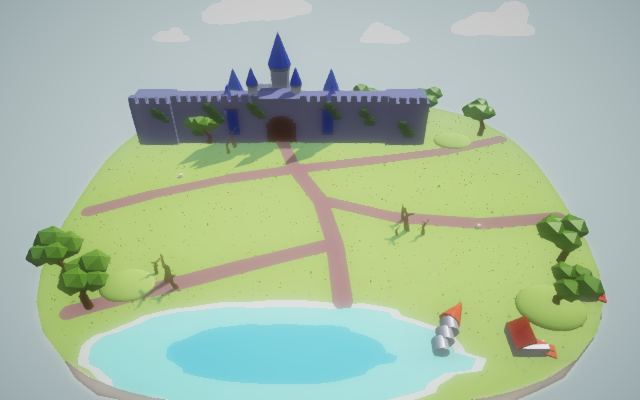
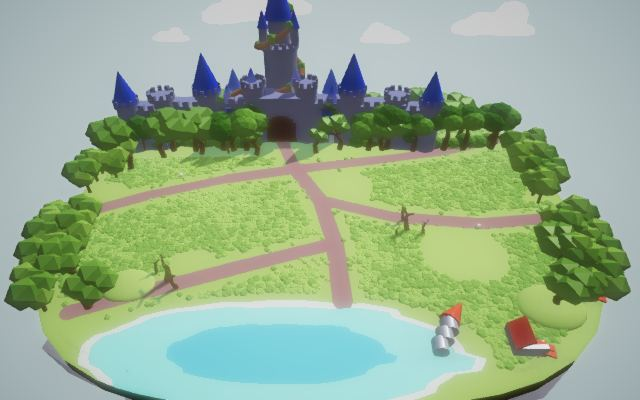
loop(575): maps_2 11/11 gaps approved

diff --git a/loop/STATE.md b/loop/STATE.md
@@ -1,5 +1,5 @@
 # Loop state (v10: maps then stages; two batch audits merged; up to 9 structural/rebuild gaps + 1 eligible polish; fresh CONFIRM before done)
-Iteration: 574   Batch: maps_2   Consecutive empty: 0   Done: 8/99   Parked: 0
+Iteration: 575   Batch: maps_2   Consecutive empty: 0   Done: 11/99   Parked: 0
 Batches, in order: maps_1, maps_2, maps_3, maps_4, stages_introduction, stages_adventure, stages_challenge, stages_dynasty, stages_renaissance, stages_pirate, stages_spooky, stages_simulation, stages_wild_west, stages_legacy, stages_fantasy_good, stages_fantasy_evil
 <!-- Item file template, loop/items/<id>.md (map: map.<id>; stage: <campaign>.<level>):
 # <id>
@@ -17,7 +17,7 @@ Marks below: one per criterion a b c (+ pass, - fail, ? unscored); map a look, b
 
 ## Scoreboard (a b c as + pass, - fail, ? unscored; status q queued, o open, D done, p parked)
 maps_1: tribal_1 +++ D | tribal_2 +++ D | tribal_sandbox +++ D | farmer_1 +++ D | farmer_2 +++ D | farmer_snow +++ D
-maps_2: medieval_1 +++ D | medieval_2 -++ o | ancient_1 --+ o | ancient_2 -++ o | ancient_sandbox -++ o | viking +-+ o | viking_sandbox +++ D
+maps_2: medieval_1 +++ D | medieval_2 +++ D | ancient_1 -++ o | ancient_2 -++ o | ancient_sandbox +++ D | viking +++ D | viking_sandbox +++ D
 maps_3: dynasty ??? q | renaissance ??? q | pirate ??? q | spooky_1 ??? q | spooky_2 ??? q | wild_west ??? q | legacy ??? q
 maps_4: fantasy_good ??? q | fantasy_evil ??? q | simulation ??? q | bridge ??? q | hill ??? q | corridor ??? q | defend_the_castle ??? q | high_ground ??? q | low_ground ??? q
 stages_introduction: clubs ??? q | army ??? q | hay_and_pitchforks ??? q | basic_formation ??? q | ice_archers_only_almost ??? q | longships ??? q
@@ -33,59 +33,59 @@ stages_legacy: siege ??? q | a_tank ??? q | the_war ??? q | thor_s_battle ??? q
 stages_fantasy_good: colossal_spike ??? q | royal_archers ??? q | clash_of_warriors ??? q | chaotic_cavalry ??? q | vicious_terror ??? q | fortified_formation ??? q
 stages_fantasy_evil: encircling_tribe ??? q | raze_the_homestead ??? q | farmer_uprising_evil ??? q | storm_the_fortress ??? q | blasted_skirmish ??? q | dismantle_the_spears ??? q
 
-## Focus (iter 574: maps_2, 9 [S] + 1 [P] + 1 [R]; BASE ae94bb09 after evidence ae94bb09 (ancient_1 battle framed on the player army))
-- [S] map.ancient_2.b blocker 1 floor trim via fresh buffer, lawn out of glow (4f1be279+bff14f83) APPROVE, struck b1
-- [S] map.ancient_2.b blocker 4 open front propylon (15c6c224) APPROVE, struck b4 (b PASS; CONFIRM passed b, failed a)
-- [S] map.ancient_sandbox.a blocker 1 clear sky (a472ad38) APPROVE, struck a1
-- [S] map.ancient_sandbox.a blocker 3 sandstone rocks and steps (ae0499eb) APPROVE, struck a3
-- [S] map.ancient_sandbox.a blocker 5 hazy graded sea (452ef25d+7ac51041) APPROVE, struck a5
-- [S] map.ancient_1.b blocker 1 outer house rows (536b4f76) APPROVE, struck b1, b3, b5
-- [S] map.ancient_1.a blocker 3 separate houses and alley stairs (422bf815) APPROVE, struck a3 and b2
-- [S] map.ancient_1.a blocker 2 flagstone paving (e03012d5+e3d80f84) APPROVE, struck a2; added a7 (too dark)
-- [S] map.viking.b blocker 2 bank face and shore rocks (fdb5043b) REJECT, reverted 3e63a5aa
-- [P] map.viking.b blocker 2 BANK.top 4.5 (dc64fad6) REJECT, reverted 8e0d0a0c
-- [R] map.viking_sandbox.a blockers 1-3 gate, skyline, floor (ef7ca1e5) APPROVE, struck a1-a3 (CONFIRM passed: D)
-- 9/11, 14 struck
+## Focus (iter 575: maps_2, 9 [S] + 1 [P] + 1 [R]; BASE 23a0052b)
+- [S] map.viking.b blocker 2 faceted snow-slab shore lip and rocks (f625c54e+cfcf192a+a551c647) APPROVE, struck b2 (b PASS; CONFIRM: D)
+- [R] map.medieval_2.a blockers 1-3 keep vine, grey rock underside, side rim oaks (894c4560+214cd90a+32646705) APPROVE, struck a1-a3 (CONFIRM passed: D)
+- [S] map.ancient_2.a blocker 1 clear sky (01f55292) APPROVE, struck a1
+- [S] map.ancient_2.a blocker 2 far range hidden (68327b4c) APPROVE, struck a2
+- [S] map.ancient_2.a blocker 3 four-terrace mound (07ed1f71) APPROVE, no strike
+- [S] map.ancient_sandbox.a blocker 4 front clouds moved behind (463f1de9) APPROVE, struck a4
+- [S] map.ancient_sandbox.a blocker 2 olive meadow (80685728+74532b9b) APPROVE, struck a2 (CONFIRM passed: D)
+- [S] map.ancient_1.b blocker 4 harbour bay (8b0caf9f) APPROVE, struck b4 (b PASS)
+- [S] map.ancient_1.a blocker 5 raised cypress planters (dc064a4b) APPROVE, struck a5
+- [S] map.ancient_1.a blocker 4 parapet with blue tiles (fb150da1) APPROVE, struck a4
+- [P] map.ancient_1.a blocker 7 pavement 0.4 (0560a79a) APPROVE, struck a7
+- 11/11, 14 struck
 
 ## Last verdicts (critic header lines verbatim)
-GAP: [S] map.ancient_2 (4f1be279 + bff14f83)
+GAP: [S] map.viking (f625c54e + cfcf192a + a551c647)
 VERDICT: APPROVE
-CRITERION: map.ancient_2.b FAIL   (previous: FAIL)
-GAP: [S] map.ancient_2 (15c6c224)
+CRITERION: map.viking.b PASS   (previous: FAIL)
+GAP: [R] map.medieval_2 (894c4560 + 214cd90a + 32646705)
 VERDICT: APPROVE
-CRITERION: map.ancient_2.b PASS   (previous: FAIL)
-GAP: [S] map.ancient_sandbox (a472ad38)
+CRITERION: map.medieval_2.a PASS   (previous: FAIL)
+GAP: [S] map.ancient_2 (01f55292)
+VERDICT: APPROVE
+CRITERION: map.ancient_2.a FAIL   (previous: FAIL)
+GAP: [S] map.ancient_2 (68327b4c)
+VERDICT: APPROVE
+CRITERION: map.ancient_2.a FAIL   (previous: FAIL)
+GAP: [S] map.ancient_2 (07ed1f71)
+VERDICT: APPROVE
+CRITERION: map.ancient_2.a FAIL   (previous: FAIL)
+GAP: [S] map.ancient_sandbox (463f1de9)
 VERDICT: APPROVE
 CRITERION: map.ancient_sandbox.a FAIL   (previous: FAIL)
-GAP: [S] map.ancient_sandbox (ae0499eb)
+GAP: [S] map.ancient_sandbox (80685728 + 74532b9b)
 VERDICT: APPROVE
-CRITERION: map.ancient_sandbox.a FAIL   (previous: FAIL)
-GAP: [S] map.ancient_sandbox (452ef25d + 7ac51041)
+CRITERION: map.ancient_sandbox.a PASS   (previous: FAIL)
+GAP: [S] map.ancient_1 (8b0caf9f)
 VERDICT: APPROVE
-CRITERION: map.ancient_sandbox.a FAIL   (previous: FAIL)
-GAP: [S] map.ancient_1 (536b4f76)
-VERDICT: APPROVE
-CRITERION: map.ancient_1.b FAIL   (previous: FAIL)
-GAP: [S] map.ancient_1 (422bf815)
+CRITERION: map.ancient_1.b PASS   (previous: FAIL)
+GAP: [S] map.ancient_1 (dc064a4b)
 VERDICT: APPROVE
 CRITERION: map.ancient_1.a FAIL   (previous: FAIL)
-GAP: [S] map.ancient_1 (e03012d5 + e3d80f84)
+GAP: [S] map.ancient_1 (fb150da1)
 VERDICT: APPROVE
 CRITERION: map.ancient_1.a FAIL   (previous: FAIL)
-GAP: [S] map.viking (fdb5043b)
-VERDICT: REJECT
-CRITERION: map.viking.b FAIL   (previous: FAIL)
-GAP: [P] map.viking (dc64fad6)
-VERDICT: REJECT
-CRITERION: map.viking.b FAIL   (previous: FAIL)
-GAP: [R] map.viking_sandbox (ef7ca1e5)
+GAP: [P] map.ancient_1 (0560a79a)
 VERDICT: APPROVE
-CRITERION: map.viking_sandbox.a PASS   (previous: FAIL)
-REGRESSIONS: map.viking.a (PASS) -> attributed to fdb5043b and dc64fad6 (both reverted)
+CRITERION: map.ancient_1.a FAIL   (previous: FAIL)
+REGRESSIONS: none
 
 ## Notes for next iteration (max 5 lines)
-- 574: 65 shots, zero page errors, all script checks pass (viking re-shot alone after the reverts). Viking Sandbox done (CONFIRM passed a).
-- [R] slot: Medieval 2 a (plateau, waiting since 572) takes it next iteration.
-- Viking b: bankFace went near black (normals/double-sided, weak emissive); retry with upward normals and pale vertex colours, BANK.top stays 2.4.
-- Ancient 2 a now carries the 574 CONFIRM list (beige sky, far mountains, flat temple grid, lime grass); b PASS confirmed.
-- Capture --add for map.viking also wipes map_viking_sandbox_* (filename prefix match): re-shoot both together (574 did).
+- 575: 71 shots, zero page errors, all script checks pass. Viking, Medieval 2, Ancient Sandbox done (CONFIRM); thumbnails re-rendered.
+- maps_2 has 2 open items (Ancient 1 a6, Ancient 2 a3 a4): tail overlap applies next iteration (audit maps_3 too, Batch: maps_2+maps_3).
+- Ancient 1 b PASS is not yet confirmed: its CONFIRM comes with a's. Ancient 1 pavement row is spent for [P].
+- Ancient 2: a pale translucent sheet shows behind the island (critic 575); mound still a mirrored grid with charcoal walls.
+- Capture --add for map.viking also wipes map_viking_sandbox_* (filename prefix match): re-shoot both together.

diff --git a/loop/LEDGER.md b/loop/LEDGER.md
@@ -3,47 +3,20 @@
 Rows: `file:identifier | value | last iter | verdict | earlier values`. P: no approved reversal within 20 iterations; two failed polish attempts spend a row. S/R replace mechanisms. The unit phase's ledger is `loop/archive/v4/LEDGER.md`.
 
 ## Structural attempts (iter | sha | item.criterion | verdict)
-570 | 10 commits (farmer_snow R, medieval_1 x3, medieval_2 x2, ancient_1, ancient_2, ancient_sandbox, viking) | all approve, struck fs a2, m1 a5 b5, m2 b1 a2, a1 a3, as b2, v a2
-571 | 2c30c0f9 | map.medieval_1.a | approve, struck a6 (a PASS; CONFIRM passed)
-571 | b3ebd6d4 | map.medieval_2.a | approve, struck a1
-571 | c12b2649 | map.medieval_2.a | approve
-571 | a1735190 | map.medieval_2.a | approve, struck a4
-571 | b70ca30a | map.ancient_2.a | approve, struck a1
-571 | f162a716 | map.ancient_1.b | approve, struck b4
-571 | 11ef65f1 | map.ancient_1.a | approve, struck a5
-571 | 8699ce12 | map.ancient_sandbox.a | approve, struck a6
-571 | d5caaf8b | map.viking.b | approve, struck b3 and a4
-571 | c47c5fef [R] | map.viking_sandbox.a | approve, struck a1, a2; added a3
-572 | 2cf0d365 [R] | map.farmer_snow.a | approve, struck a1, a3 (CONFIRM failed a)
-572 | afbebfe0 | map.medieval_2.a | approve, struck a3 (CONFIRM failed a)
-572 | 17023fc0 | map.viking_sandbox.a | approve, struck a3 (CONFIRM failed a)
-572 | b49c9e06 | map.ancient_1.a | approve, struck a6
-572 | 86b2096b | map.ancient_1.b | approve, struck b2 (CONFIRM failed b)
-572 | 650af264 | map.ancient_1.a | approve, struck a4 (CONFIRM failed a)
-572 | ed751363 | map.ancient_2.a | approve, struck a3
-572 | 72b505d7 | map.ancient_sandbox.b | approve, struck b3 and a3
-572 | 30beeb4b+b35b008f | map.viking.a | approve, struck a3
-572 | 686f2456 | map.ancient_sandbox.a | approve, struck a2
-573 | 94ecffc7+cd93dfb2 [R] | map.farmer_snow.a | approve, struck a1-a3 (CONFIRM passed: D)
-573 | 264fb953 | map.viking.b | approve, no strike
-573 | c44dc74a | map.viking.a | approve, struck a5
-573 | f74d311d | map.viking.a | approve, struck a6 (CONFIRM passed a)
-573 | d11426f4 | map.ancient_sandbox.b | approve, struck b1
-573 | b82dd7b7 | map.ancient_sandbox.b | approve, struck b4 (CONFIRM passed b, failed a)
-573 | f5374621 | map.ancient_2.b | dropped (no visible change; reverted)
-573 | cc91f4d4 | map.ancient_2.a | approve, struck a4
-573 | 0f5ada56 | map.ancient_2.a | approve, struck a5
-573 | 61adfc2c | map.ancient_1.a | approve, struck a1
-574 | 4f1be279+bff14f83 | map.ancient_2.b | approve, struck b1
-574 | 15c6c224 | map.ancient_2.b | approve, struck b4 (b PASS; CONFIRM passed b, failed a)
-574 | a472ad38 | map.ancient_sandbox.a | approve, struck a1
-574 | ae0499eb | map.ancient_sandbox.a | approve, struck a3
-574 | 452ef25d+7ac51041 | map.ancient_sandbox.a | approve, struck a5
-574 | 536b4f76 | map.ancient_1.b | approve, struck b1, b3, b5
-574 | 422bf815 | map.ancient_1.a | approve, struck a3 and b2
-574 | e03012d5+e3d80f84 | map.ancient_1.a | approve, struck a2; added a7
-574 | fdb5043b | map.viking.b | reject (bank face near black; reverted)
-574 | ef7ca1e5 [R] | map.viking_sandbox.a | approve, struck a1-a3 (CONFIRM passed: D)
+571 | 10 commits (medieval_1, medieval_2 x3, ancient_2, ancient_1 x2, ancient_sandbox, viking, viking_sandbox R) | all approve
+572 | 10 commits (farmer_snow R, medieval_2, viking_sandbox, ancient_1 x3, ancient_2, ancient_sandbox x2, viking) | all approve; CONFIRM failed fs, m2, vs, a1
+573 | 10 commits (farmer_snow R: D; viking x3; ancient_sandbox x2; ancient_2 x3, one dropped; ancient_1) | 9 approve
+574 | 10 commits (ancient_2 x2: b PASS; ancient_sandbox x3; ancient_1 x3; viking reject; viking_sandbox R: D) | 9 approve
+575 | f625c54e+cfcf192a+a551c647 | map.viking.b | approve, struck b2 (b PASS; D)
+575 | 894c4560+214cd90a+32646705 [R] | map.medieval_2.a | approve, struck a1-a3 (CONFIRM passed: D)
+575 | 01f55292 | map.ancient_2.a | approve, struck a1
+575 | 68327b4c | map.ancient_2.a | approve, struck a2
+575 | 07ed1f71 | map.ancient_2.a | approve, no strike (grid, charcoal walls)
+575 | 463f1de9 | map.ancient_sandbox.a | approve, struck a4
+575 | 80685728+74532b9b | map.ancient_sandbox.a | approve, struck a2 (CONFIRM passed: D)
+575 | 8b0caf9f | map.ancient_1.b | approve, struck b4 (b PASS)
+575 | dc064a4b | map.ancient_1.a | approve, struck a5
+575 | fb150da1 | map.ancient_1.a | approve, struck a4
 
 ## Tuned values
 web/src/map/tabs/farmer_2.ts:wheatField stalk height, step | 0.65-0.8 m, 0.75 m | 564 | approved | 0.5-0.7 m, 0.9 m; 1.0-1.3 m
@@ -113,7 +86,13 @@ web/src/map/tabs/ancient_2.ts:ringWall | 72 segments r 49.6, 1.5 m high, beige (
 web/src/map/tabs/viking.ts:BANK, UNDER, FALL | bank 2.4 m smoothstep over 5 m past lake edge (height field); ice bowl to -26 m; crag+cascade at (0,44) | 574 | top 4.5 m rejected (P 574, attempts 1); 2.4 kept | absent
 web/src/map/tabs/ancient_2.ts:crispRim and frontPropylon | floor trimmed to r 50.3 via setVerticesData, lawn out of glow; propylon 8.4 x 5.4 m at 250 deg, r 49 | 574 | approved, b PASS | apron; solid gabled box
 web/src/map/tabs/ancient_sandbox.ts:clearSky, frontSandstone, hazySea | clear (0.3,0.6,0.88) fog (0.66,0.8,0.93); 5 sandstone clusters + 2 step flights, hazeTreeline hidden; vertex-graded sea (0.3,0.55,0.76)->(0.66,0.8,0.93) | 574 | approved, struck a1 a3 a5 | beige; dark boulder chain; royal-blue disc
-web/src/map/tabs/ancient_1.ts:outerRows, houses, flagstones | 2 houses per long-wall row end x 28.5..52; 9.8 m houses with 2.2 m alleys; pavement 0.27 matte + jittered white lines | 574 | approved; pavement too dark (a7) | bands only; fused slab; (0.53,0.56,0.62) + seam grid
+web/src/map/tabs/ancient_1.ts:outerRows, houses, flagstones | 2 houses per long-wall row end x 28.5..52; 9.8 m houses with 2.2 m alleys; jittered white lines | 574 | approved | bands only; fused slab; seam grid
+web/src/map/tabs/ancient_1.ts:flagstones pavement diffuse | 0.4 matte (P 575, fallout of e03012d5) | 575 | approved | 0.27 (574, a7 too dark); 0.46 lit silver sheen; (0.53,0.56,0.62)
+web/src/map/tabs/ancient_1.ts:harbourBay, cypressPlanters, parapetWall | L bay on shelves x -67..-55.6 / -67..-44; 7 x 1.1 m planters, 4 cypress 5.5-7.5 m; 1.3 x 2.45 m parapet + blue tiles | 575 | approved | pond on headland; round basins, 3-4 m cones; 1.34 m wall + flat strip
+web/src/map/tabs/viking.ts:shoreLip | 84 faceted snow slabs lakeR -0.4..+1.8, 1.8-3.3 m long, self-lit 0.28; 16 grey rocks | 575 | approved | absent (574 bankFace sheet rejected)
+web/src/map/tabs/medieval_2.ts:earthenBowl, keepVine, sideTreeRing (R) | earth band 3.2 m then grey rock to -34 m + 70 boulders; vine r 1.5 coiling 2.75 turns to 37 m + arch strand; 2 oak rows 0.97/0.89 rim z 17..-32 | 575 | approved | pale bowl to -23 m; absent; absent
+web/src/map/tabs/ancient_2.ts:clearSky, openSkyline, TERRACES | clear (0.3,0.6,0.88); mountain* hidden; 4 terraces to 20 m + podium temple | 575 | approved | beige; range shown; 3 terraces to 10 m
+web/src/map/tabs/ancient_sandbox.ts:cloudsBehind, oliveMeadow | front ring clouds z mirrored; floor+shelves (0.6,0.6,0.2), clumps 1.1 m grid | 575 | approved | clouds in front; (0.51,0.66,0.23) flat
 web/src/map/tabs/viking_sandbox.ts:runeGate, rimCrystals, floor (R) | gate 24 x 21 m steel-teal (0.24,0.5,0.64), towers 25 m; columns 0.94-1.02 tier; crystals at 28/50 deg; ice 0.72 R, 12+12 drifts 0.25 m | 574 | approved, D | 18.7 m pillars; columns 1.2-1.45x; 5 rim peaks; ice 0.8 R, 9+7 drifts
 web/src/map/tabs/ancient_sandbox.ts:SHELVES and ISLETS | 10 lobes 9-25 m out, tops -2.5..-7; 5 islets 75-150 m out | 573 | approved, b PASS | absent
 web/src/map/tabs/ancient_2.ts:earthDrum and PAVILIONS | drum r 51 to -17 m, 110 stones; pavilions at 188/250/320 deg | 573 | approved, a PASS | navy slab; absent

diff --git a/loop/LESSONS.md b/loop/LESSONS.md
@@ -4,7 +4,6 @@ Read at step 1; one fact a line, merge near cap. The unit phase's rig and dress 
 
 ## Rendering (swiftshader + PBR + SSAO + ACES + glow)
 - PBR colours are linear: an sRGB target c needs ~c^2.2 as the code. Pick values off `output/loop/palette.png` (`capture.mjs --palette`).
-- SSAO greys a DOUBLESIDE ribbon's inward faces: build shells one-sided facing out (check flipFaces).
 - Flat colour that survives ACES: an "unlit" material's colour comes from its EMISSIVE only (baseColor alone renders black), excluded from the glow layer (glow.addExcludedMesh). A saturated red needs emissive r > 1 and b near 0.
 - ACES lifts mid code values toward pale: an unlit plate keeps a deep value; lit timber wants (.2,.11,.055) with a small self-light.
 - "metal" renders near black: use "cloth" with a small emissive. Lit cloth in shade reads grey.
@@ -12,7 +11,7 @@ Read at step 1; one fact a line, merge near cap. The unit phase's rig and dress 
 - A world box refreshes only on render: computeWorldMatrix(true) before reading bounds in a per-tick step. bakeCurrentTransformIntoVertices bakes the world matrix: bake, then parent.
 - Flat pieces are closed slabs (a one-sided disc can face away). execSync eats a caret: write sha~1.
 - glow.addExcludedMesh does not make a mesh occlude the glow: a dark mesh left out of the glow pass wears the glow of bright emissive ground behind it as a pale veil (farmer_snow mill read white, 562). Keep dark solids in the pass; exclude only bright/self-lit ones.
-
+- CreateIcoSphere subdivisions 0 is falsy, so it becomes 4: a smooth navy ball (575). Use 1 for a faceted rock.
 - Lit thin-instance wheat can read gold from above and brown at ground level. Two unlit, glow-excluded instance meshes sharing one matrix buffer keep heads and stems distinct in both shots.
 
 ## Capture and probes
@@ -40,7 +39,7 @@ Read at step 1; one fact a line, merge near cap. The unit phase's rig and dress 
 - Round island (560): base lawn ("ground", "centerGrass") and underside slabs follow islandRim (superellipse 54 x 48, power 3); remap vertices radially by newR/oldR. fieldBlades_* are plain vertex meshes (4 per blade): collapse a quad past the rim onto its first vertex. hazeTreeline is one merged mesh: hide it whole. Base trunks are unparented (crowns are their children); skip disabled trunks.
 - Scene fog is linear and re-keyed every frame by main.ts (fogStart/End from the camera radius): a map's fogDensity does nothing. Draw haze instead (inside-facing translucent mist walls, viking 572).
 - Farmer base ring trees are oaks (mapBuilder oakRing: "canopy" disabled, crowns are "oakCrown" lumps on oakLeaves/oakLeavesDark): recolour those, not canopy (561). A raised drawn-only set piece (bridge hump) can carry units via MapBuildResult.height (farmer_1 bridgeHeight).
-- A ribbon's facing follows its path order: with backFaceCulling off a down-facing deck renders black; check the first normal after convertToFlatShadedMesh and flipFaces(true) when wrong (561; viking bankFace 574 went near black). An underside facing away from the sun needs self-light ~1x its colour or it reads near black.
+- A ribbon's facing follows its path order (SSAO greys a DOUBLESIDE one's inward faces): a down-facing deck renders black; check the first normal after convertToFlatShadedMesh and flipFaces(true) when wrong (561; viking bankFace 574 went near black). An underside facing away from the sun needs self-light ~1x its colour or it reads near black.
 - Read stage armies from the stage files, not from Notes: tribal_2's "team 1 at x <= 40" was really x <= 24.4 (563), which freed 15 m for the massif. The campaign.challenge base's placement zones reach x +-61, past the 54 m rim: a builder that walls the field clips placementZones (centre/size) inside it.
 - Upright tessellation-5/6 cylinders with flat tops read as basalt columns / a palisade from the top shot (tribal_2 massif, viking_sandbox wall, 563 critic+CONFIRM): a rock mass wants heaped faceted boulders or tilted slabs with few flat tops.
 - Stage enemy positions are validated against the map's team-1 zone, hazards and obstacles (game.checkStage): a map change can misplace a stage's army (the checkpoint re-judges every stage on a finished map batch).
@@ -51,4 +50,4 @@ Read at step 1; one fact a line, merge near cap. The unit phase's rig and dress 
 - The sandboxed shell blocks the capture's loopback calls to Vite: run captures with local network access.
 - Bushy grass: flattened subdivision-1 IcoSpheres as thin instances on a ~0.8 m grid read as fuzzy cover; leaf cards read as beige flags (571).
 - Varied-height cliff buttresses can leave sky below continuous ledges. Back the ledges with a skirt down to the adjoining tier and check the ground shot.
-- Rooftops can hide a stage's army in a low camera; an elevated player-side diagonal keeps it visible (Ancient 1).
+- Rooftops can hide a stage's army in a low camera; an elevated player-side diagonal shows it (Ancient 1).

diff --git a/loop/items/map.ancient_2.md b/loop/items/map.ancient_2.md
@@ -1,25 +1,23 @@
 # map.ancient_2
 Status: open   Audited: 562 (AUDIT x2), 574 (CONFIRM: passed b; failed a)   Done: -
 ## Verdicts
-a FAIL (0 since 574; CONFIRM failed 1x): 1. Flat beige/tan sky behind the island in map_ancient_2_island — TABS: pale blue sky with white puffy clouds (ref: reference/maps/greek_ancient_2.png) 2. Grey low-poly mountain range rising behind the temple complex in map_ancient_2_island — TABS: no mountains, the complex itself is the only mass against open sky (ref: reference/maps/greek_ancient_2.png) 3. Temple complex as two low terraces of identical small temples in an even grid in map_ancient_2_island — TABS: a tall, dense, tangled mound of temples, stairs, columns and overgrown green-topped terraces climbing to a crowning temple, the highest thing on the island (ref: reference/maps/wiki/ancient_2.png) 4. Saturated lime grass in map_ancient_2_ground — TABS: muted olive/yellow-green meadow (ref: reference/stages/renaissance.renaissance_vs_ancient_2.png)
+a FAIL (575: struck 1, 2): 3. Temple complex as two low terraces of identical small temples in an even grid in map_ancient_2_island — TABS: a tall, dense, tangled mound of temples, stairs, columns and overgrown green-topped terraces climbing to a crowning temple, the highest thing on the island (ref: reference/maps/wiki/ancient_2.png) 4. Saturated lime grass in map_ancient_2_ground — TABS: muted olive/yellow-green meadow (ref: reference/stages/renaissance.renaissance_vs_ancient_2.png)
 b PASS (574: struck 1, 4; CONFIRM 574)
-c PASS (574 judge)
+c PASS (575 judge)
 
 ## Ranked gaps
-1. [S] a — sky — blocker 1: clear mid-blue sky and pale haze (as ancient_1/ancient_sandbox clearSky) — ref: reference/maps/greek_ancient_2.png — ours: map_ancient_2_island.png
-2. [S] a — mountains — blocker 2: hide the base far range (mountainBase/Cap/Root) — ref: reference/maps/greek_ancient_2.png — ours: map_ancient_2_island.png
-3. [S] a — temple mound — blocker 3: taller stepped mound with varied temples and green-topped terraces up to a crowning temple — ref: reference/maps/wiki/ancient_2.png — ours: map_ancient_2_island.png
+1. [S] a — irregular temple mound — blocker 3: rebuild templeComplex off-grid: blocks of mixed width, depth and height per terrace, side stair flights, statues and column stubs, beige-grey stone walls (~0.7,0.66,0.58) — ref: reference/maps/wiki/ancient_2.png — ours: map_ancient_2_island.png
+2. [S] a — olive meadow — blocker 4: replace greenLawn's lime floor and clumps with a muted olive/yellow-green meadow in two tones and swathes (as ancient_sandbox oliveMeadow) — ref: reference/stages/renaissance.renaissance_vs_ancient_2.png — ours: map_ancient_2_ground.png
 
 ## Attempts (iter | gap | criterion | verdict)
 565-567 | [S] own builder, temples, stair, statues; field cleared; crossing paths | a, b | 3 APPROVE struck a2, b2, b3, b5
-570-572 | [S] circular outline (18a7b03b); lawn (b70ca30a); ring wall (ed751363) | a, b | 3 APPROVE, struck a1, a3
-573 | [S] world-space remap (f5374621) | b | dropped (GPU kept the old buffer)
-573 | [S] earth drum (cc91f4d4); gate pavilions (0f5ada56) | a | 2 APPROVE, struck a4, a5 (a PASS)
-574 | [S] floor trim re-uploaded, lawn out of glow (4f1be279+bff14f83) | b | APPROVE, struck b1
-574 | [S] open front propylon (15c6c224) | b | APPROVE, struck b4 (b PASS); CONFIRM passed b, failed a
+570-573 | [S] circular outline; lawn; ring wall; earth drum; gate pavilions (one dropped) | a, b | 5 APPROVE, struck a1, a3-a5
+574 | [S] floor trim re-uploaded (4f1be279+bff14f83); open front propylon (15c6c224) | b | 2 APPROVE, struck b1, b4 (b PASS); CONFIRM failed a
+575 | [S] clear sky (01f55292); far range hidden (68327b4c) | a | 2 APPROVE, struck a1, a2
+575 | [S] four-terrace mound to a podium temple (07ed1f71) | a | APPROVE, no strike (still a mirrored grid, charcoal walls) (attempts 1 on a3)
 
 ## Rejected (last 4)
 
 ## Notes (max 3 lines)
 - Stages on it: challenge.zeus, renaissance.renaissance_vs_ancient_2 (team 1 at x 29..37, |z| <= 18; the complex starts at z 24).
-- Critic 574: zone overlay rectangles stick out past the disc in top/island; gate plaster near white. Critic 572: wall plain.
+- Critic 575: a pale translucent rectangular sheet shows behind the island (zone overlay or haze plane): find and hide it; sky deeper than TABS pastel.

diff --git a/loop/items/map.ancient_1.md b/loop/items/map.ancient_1.md
@@ -1,25 +1,23 @@
 # map.ancient_1
 Status: open   Audited: 562 (AUDIT x2), 572 (CONFIRM: passed none; failed a, b)   Done: -
 ## Verdicts
-a FAIL (574: struck 2, 3): 4. thin blue rail edging the field in map_ancient_1_island — TABS: low white parapet wall with blue tile coping (ref: reference/maps/wiki/ancient_1.png) 5. lone grass tufts at the field corners in map_ancient_1_top — TABS: cypress clusters in raised white planters along the wall (ref: reference/maps/wiki/ancient_1.png) 6. bare streets and rooftops in map_ancient_1_ground — TABS: pots, barrels, pink-blossom and olive shrubs dressing roofs and lanes (ref: reference/maps/wiki/ancient_1.png) 7. dark navy-charcoal paving across map_ancient_1_top — TABS: light-mid grey paving (ref: reference/maps/wiki/ancient_1.png)
-b FAIL (574: struck 1, 2, 3, 5): 4. harbour water only a small pond on a detached rock slab behind the field in map_ancient_1_top — TABS: blue bay cutting into one corner of the island beside the statue headland (ref: reference/maps/wiki/ancient_1.png)
-c PASS (574 judge)
+a FAIL (575: struck 4, 5, 7): 6. bare streets and rooftops in map_ancient_1_ground — TABS: pots, barrels, pink-blossom and olive shrubs dressing roofs and lanes (ref: reference/maps/wiki/ancient_1.png)
+b PASS (575: struck 4)
+c PASS (575 judge)
 
 ## Ranked gaps
-1. [S] b — harbour bay — blocker 4: cut a blue bay into the back-left corner of the town slab beside the statue headland, inside the island outline (bayHeadland) — ref: reference/maps/wiki/ancient_1.png — ours: map_ancient_1_top.png
-2. [S] a — cypress planters — blocker 5: 3-5 tall cypress cones in raised rectangular white planters along the wall — ref: reference/maps/wiki/ancient_1.png — ours: map_ancient_1_top.png
-3. [P] a — paving tone — blocker 7: flagstones pavement diffuse 0.27 -> 0.4 (fallout of e03012d5, 574), shows in map_ancient_1_top and map_ancient_1_battle — ref: reference/maps/wiki/ancient_1.png
+1. [S] a — roof dressing — blocker 6: pots, pink-blossom shrubs and olive bushes on the house roofs and roof terraces — ref: reference/maps/wiki/ancient_1.png — ours: map_ancient_1_ground.png
+2. [S] a — lane dressing — blocker 6: barrels, crates, amphorae and small shrubs along the street edges and alley ends — ref: reference/maps/wiki/ancient_1.png — ours: map_ancient_1_ground.png, map_ancient_1_top.png
 
 ## Attempts (iter | gap | criterion | verdict)
-566-572 | [S] slab, streets, houses, wall, planters, bay, statue, lighthouse, underside | a, b | 8 APPROVE; CONFIRM 572 failed a, b
-573 | [S] clear blue sky and haze (61adfc2c) | a | APPROVE, struck a1
-574 | [S] outer house rows along the long walls (536b4f76) | b | APPROVE, struck b1, b3, b5
-574 | [S] separate houses, alleys, alley stairs (422bf815) | a | APPROVE, struck a3 and b2
-574 | [S] irregular flagstone paving (e03012d5+e3d80f84) | a | APPROVE, struck a2; added a7 (too dark)
+566-573 | [S] slab, streets, houses, wall, planters, bay, statue, lighthouse, underside, clear sky | a, b | 9 APPROVE; CONFIRM 572 failed a, b
+574 | [S] outer rows; separate houses and alley stairs; flagstones | a, b | 3 APPROVE, struck a2, a3, b1-b3, b5; added a7
+575 | [S] harbour bay on new shelves (8b0caf9f) | b | APPROVE, struck b4 (b PASS)
+575 | [S] raised cypress planters (dc064a4b); parapet with blue tiles (fb150da1); [P] pavement 0.4 (0560a79a) | a | 3 APPROVE, struck a5, a4, a7
 
 ## Rejected (last 4)
 
 ## Notes (max 3 lines)
 - Stages: introduction.basic_formation, adventure.final_destination_wheelbarrow, dynasty.zeus_and_other_folks, fantasy_evil.blasted_skirmish (enemies x 29..40.5, |z| <= 18: houses stay out of |x| >= 25 within |z| < 21).
-- Evidence 574 (ae94bb09): battle shot frames the player army's box from an elevated diagonal.
+- Critic 575: bay a narrow moat (widen the back-left lobe); headland a box pad; cypresses spiky; tiles a comb; pavement row spent for [P].
 - Critic 574: outer houses plain boxes; domes sit on ordinary roofs (TABS: churches with octagonal drums).

diff --git a/loop/items/map.viking.md b/loop/items/map.viking.md
@@ -1,25 +1,22 @@
 # map.viking
-Status: open   Audited: 562 (AUDIT x2), 573 (CONFIRM: passed a, b)   Done: -
+Status: done   Audited: 562 (AUDIT x2), 573 (CONFIRM: passed a, b), 575 (CONFIRM: passed a, b)   Done: 575
 ## Verdicts
 a PASS (573: struck 5, 6; CONFIRM 573)
-b FAIL (571: struck 3): 2. Snowbanks with pine forest on the sides absent in map_viking_top — TABS: raised snowy shore with pines (ref: reference/stages/introduction.ice_archers_only_almost.png)
-c PASS (574 judge)
+b PASS (575: struck 2; CONFIRM 573)
+c PASS (575 judge)
 
 ## Ranked gaps
-1. [S] b — white snowbank that reads from above — blocker 2: bankFace sheet with upward normals (check the first normal; wind or flipFaces), vertex colour white to pale blue (0.75,0.84,0.95) at most, emissive SNOW_SHADE x1.0, shore rocks large enough to show at the bank foot; BANK.top stays 2.4 m — ref: reference/stages/introduction.ice_archers_only_almost.png — ours: map_viking_ground.png, map_viking_top.png
 
 ## Attempts (iter | gap | criterion | verdict)
 565-566 | [S] own builder; ice lake, cracks, snow banks; field cleared | a, b | 2 APPROVE struck a1, b1, b4
-570-572 | [S] snow pines; ship in the ice; blizzard sky and mist | a, b | 3 APPROVE, struck a2, a3, a4, b3
-573 | [S] raised snowbanks (264fb953) | b | APPROVE, no strike
-573 | [S] ice underside (c44dc74a); frozen waterfall (f74d311d) | a | 2 APPROVE, struck a5, a6 (a PASS); CONFIRM passed a, b
-574 | [S] shaded bank face and shore rocks (fdb5043b) | b | REJECT (attempts 1): face rendered near black, regressed a
-574 | [P] BANK.top 2.4 -> 4.5 (dc64fad6) | b | REJECT: doubled the dark face
+570-573 | [S] snow pines; ship in the ice; blizzard sky and mist; raised snowbanks; ice underside; frozen waterfall | a, b | 6 APPROVE, struck a2-a6, b3
+574 | [S] bank face (fdb5043b); [P] BANK.top 4.5 (dc64fad6) | b | 2 REJECT (black face)
+575 | [S] faceted snow-slab shore lip with grey rocks (f625c54e+cfcf192a+a551c647) | b | APPROVE, struck b2 (b PASS; D)
 
 ## Rejected (last 4)
 - 574 [S] fdb5043b bankFace: double-sided vertex-coloured sheet over the ramp renders near black in ground/army shots; rocks unseen (attempts 1)
 - 574 [P] dc64fad6 BANK.top 4.5: a tall dark wall hiding pine trunks (attempts 1)
 
 ## Notes (max 3 lines)
-- Stages on it (8): introduction.ice_archers_only_almost, introduction.longships, challenge.ice_archer_and_friends, challenge.big_brawl, dynasty.viking_army, spooky.breakout, fantasy_good.clash_of_warriors, fantasy_evil.dismantle_the_spears (all enemies x 29..40, |z| <= 18, inside the lake).
-- Critic 573: cascade glows near white (iceMat self-light 0.5 -> 0.3); underside sides drum-like.
+- Stages on it (8): ice_archers_only_almost, longships, ice_archer_and_friends, big_brawl, viking_army, breakout, clash_of_warriors, dismantle_the_spears (enemies x 29..40, |z| <= 18).
+- Critic 575: bank narrow and low, pines on its crest (TABS: broader slope).

diff --git a/loop/items/map.medieval_2.md b/loop/items/map.medieval_2.md
@@ -1,21 +1,19 @@
 # map.medieval_2
-Status: open   Audited: 562 (AUDIT x2), 569 (CONFIRM: passed none; failed a, b), 572 (CONFIRM: passed b; failed a)   Done: -
+Status: done   Audited: 562 (AUDIT x2), 569 (CONFIRM: passed none; failed a, b), 572 (CONFIRM: passed b; failed a), 575 (CONFIRM: passed a)   Done: 575
 ## Verdicts
-a FAIL (0 since 572; plateau, CONFIRM failed 2x): 1. giant twisting vine/tentacle around the central keep, missing from map_medieval_2_island.png — TABS: a huge brown vine coils up the tallest blue-roofed spire and over the walls (ref: reference/maps/meadow_medieval_2.png) 2. island underside in map_medieval_2_island.png: a smooth pale pink-beige slab — TABS: a faceted grey rock underside below a dark earth band (ref: reference/maps/meadow_medieval_2.png) 3. tree ring along the east and west rims in map_medieval_2_top.png: the side edges are open grass with only a couple of tree clumps — TABS: dense round bushy trees line the whole rim, from the castle down both sides to the pond (ref: reference/maps/meadow_medieval_2.png)
+a PASS (575: struck 1, 2, 3; CONFIRM 575)
 b PASS (570: struck 1; CONFIRM 572)
-c PASS (572 judge)
+c PASS (575 judge)
 
 ## Ranked gaps
-1. [R] a — keep vine, rock underside, side tree ring — blockers 1-3: rebuild the island's dressing from both CONFIRM lists (569, 572): coiling brown vine up the keep, faceted grey rock underside below a dark earth band, dense round oaks down both side rims to the pond — ref: reference/maps/meadow_medieval_2.png — ours: map_medieval_2_island.png, map_medieval_2_top.png
 
 ## Attempts (iter | gap | criterion | verdict)
 565-569 | [S] own builder, pond, paths, castle facade, oaks, cottages, bowl, halves, meadow | a, b | 7 APPROVE struck a1-a5, b1-b4
-570 | [S] front pond to the island lip (4e079a16); open sky behind the castle (4df6e5f8) | b, a | 2 APPROVE, struck b1, a2
-571 | [S] drum towers + spired keep (b3ebd6d4); castle-foot oaks (c12b2649); grass swathes (a1735190) | a | 3 APPROVE, struck a1, a4
-572 | [S] hedge domes and big domed oaks at the castle foot (afbebfe0) | a | APPROVE, struck a3 (a PASS); CONFIRM failed a
+570-572 | [S] front pond, open sky, drum towers + keep, castle-foot oaks, grass swathes, thicket | a, b | 6 APPROVE; CONFIRM failed a 2x (plateau)
+575 | [R] keep vine, grey rock underside under an earth band, side rim oak rows (894c4560+214cd90a+32646705) | a | APPROVE, struck a1-a3; CONFIRM passed (D)
 
 ## Rejected (last 4)
 
 ## Notes (max 3 lines)
 - Stages on it: challenge.knights_and_priests, challenge.twin_lords, fantasy_evil.storm_the_fortress. Base is campaign.adventure (regression scenarios): never edit it.
-- CONFIRM 569 also asked for a 3-5 m mound under the castle. Critic 572: thicket oaks one even height, trunks read as a colonnade.
+- Critic 575: vine slender (r 1.5); underside boulders read as pale balls; white facets flash in right-rim crowns.

diff --git a/loop/items/map.ancient_sandbox.md b/loop/items/map.ancient_sandbox.md
@@ -1,23 +1,20 @@
 # map.ancient_sandbox
-Status: open   Audited: 562 (AUDIT x2), 573 (CONFIRM: passed b; failed a)   Done: -
+Status: done   Audited: 562 (AUDIT x2), 573 (CONFIRM: passed b; failed a), 575 (CONFIRM: passed a)   Done: 575
 ## Verdicts
-a FAIL (574: struck 1, 3, 5): 2. saturated mid-green lawn across map_ancient_sandbox_ground.png — TABS: yellow-olive green grass (ref: reference/maps/wiki/ancient_sandbox.png) 4. large white cloud mass covering the lower right of the island in map_ancient_sandbox_island.png — TABS: clouds stay in the sky and the island and its cliffs are unobstructed (ref: reference/maps/greek_ancient_sandbox.png)
+a PASS (575: struck 2, 4; CONFIRM 575)
 b PASS (573: struck 1, 4; CONFIRM 573)
-c PASS (574 judge)
+c PASS (575 judge)
 
 ## Ranked gaps
-1. [S] a — lawn palette — blocker 2: yellow-olive field floor and grass flecks — ref: reference/maps/wiki/ancient_sandbox.png — ours: map_ancient_sandbox_ground.png
-2. [S] a — cloud off the island — blocker 4: remove or raise the low "cloud" mesh in front of the island's lower right — ref: reference/maps/greek_ancient_sandbox.png — ours: map_ancient_sandbox_island.png
 
 ## Attempts (iter | gap | criterion | verdict)
 563-566 | [S] own builder: terracotta cliffs, sea, junk removed, meadow, clay paths | a, b | 5 APPROVE struck a1, a4, a5, b5
-570-572 | [S] temple hills, ruins, spiral mountain, hamlets and cypresses | a, b | 4 APPROVE struck a2, a3, a6, b2, b3
-573 | [S] outer shelves and headlands (d11426f4); offshore islets (b82dd7b7) | b | 2 APPROVE, struck b1, b4 (b PASS); CONFIRM failed a
-574 | [S] clear sky (a472ad38); sandstone rocks and steps (ae0499eb); hazy graded sea (452ef25d+7ac51041) | a | 3 APPROVE, struck a1, a3, a5
+570-573 | [S] temple hills, ruins, spiral mountain, hamlets, shelves, islets | a, b | 6 APPROVE (b PASS); CONFIRM failed a
+574 | [S] clear sky; sandstone rocks and steps; hazy graded sea | a | 3 APPROVE, struck a1, a3, a5
+575 | [S] front ring clouds behind the island (463f1de9); olive meadow with clump swathes (80685728+74532b9b) | a | 2 APPROVE, struck a4, a2; CONFIRM passed (D)
 
 ## Rejected (last 4)
 
 ## Notes (max 3 lines)
 - No stages fought on it. Base is campaign.challenge (shared): dress it in tabs/ancient_sandbox.ts only.
-- Critic 574: islets render slate-violet (fog them); near sea lower left still saturated with cyan lagoon edge; steps read as boxes on the cliff face.
-- Critic 573: field inside still a rounded rectangle with an orange rim line. Critic 572: houses bare cubes.
+- Critic 575: base mountain range still behind the spiral mountain; islets dark and spiky; clumps read as flat plates at ground.
